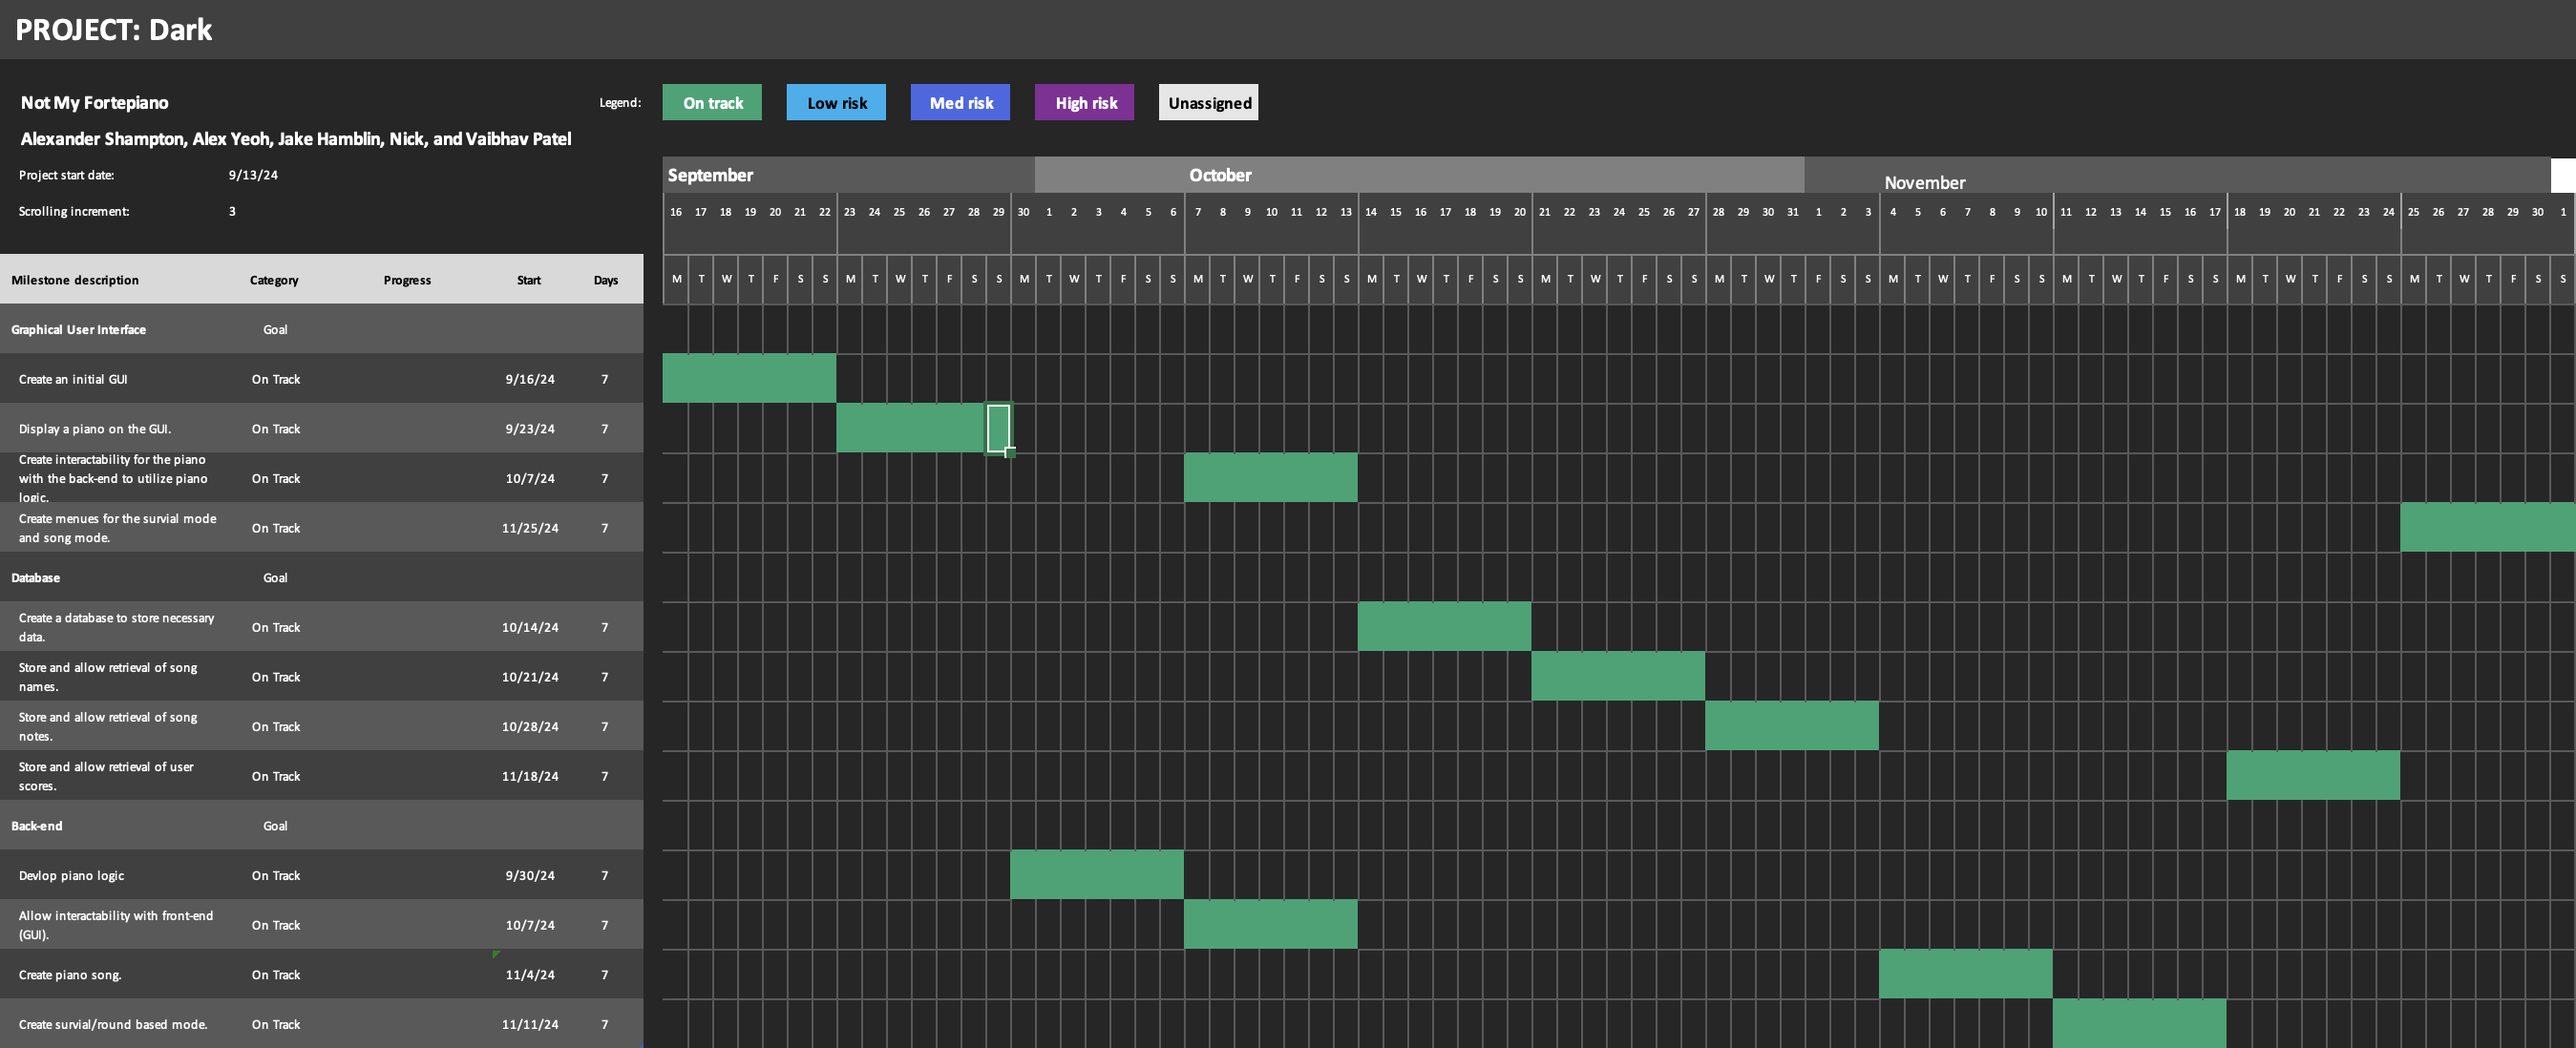
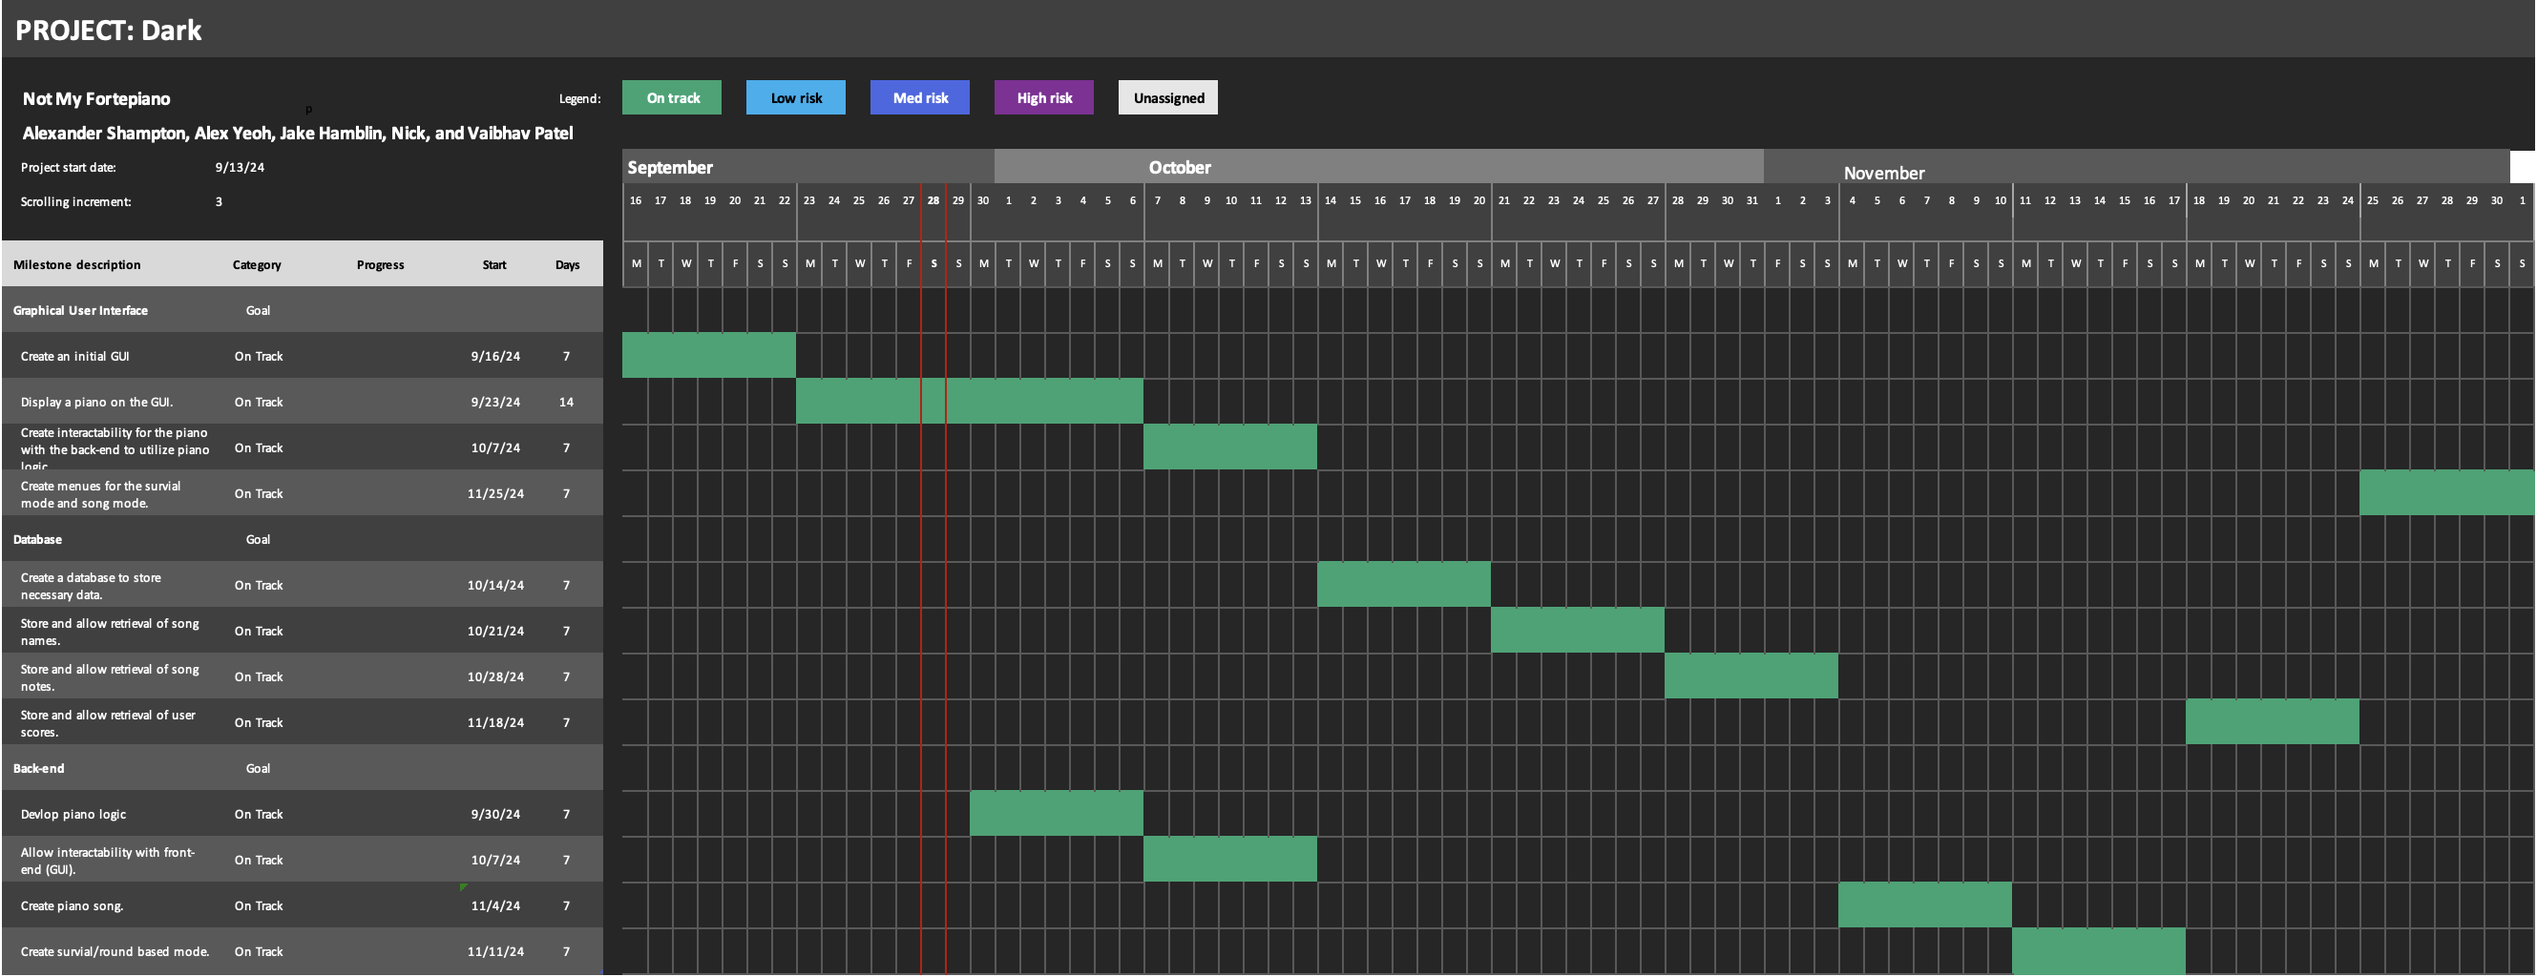
update deliverable dates

diff --git a/deliverables/sdp.md b/deliverables/sdp.md
@@ -25,11 +25,11 @@ This decision was made because nobody wanted to be "in charge". We decided that 
 - MVSs: A GUI application that displays an piano and is playable.
 - Milestones (i.e., "Checkins"):
   - 9/22: Display a GUI
-  - 9/29: Display a piano
+  - 10/6: Display a piano
   - 10/6: Create piano logic
   - 10/13: Create interactability for the piano between the front and back end.
   - 11/10: Create a piano song/music database
   - 11/17: Create piano round-based mode, Survival (Bop-It mode)
   - 12/1: Create different play options menu (survival/song choice) for GUI
-- 9/27: Requirement Specification
-- 10/4: Design Specification
+- 9/27: Requirement Specification (requirements.md)
+- 10/11: Design Specification
